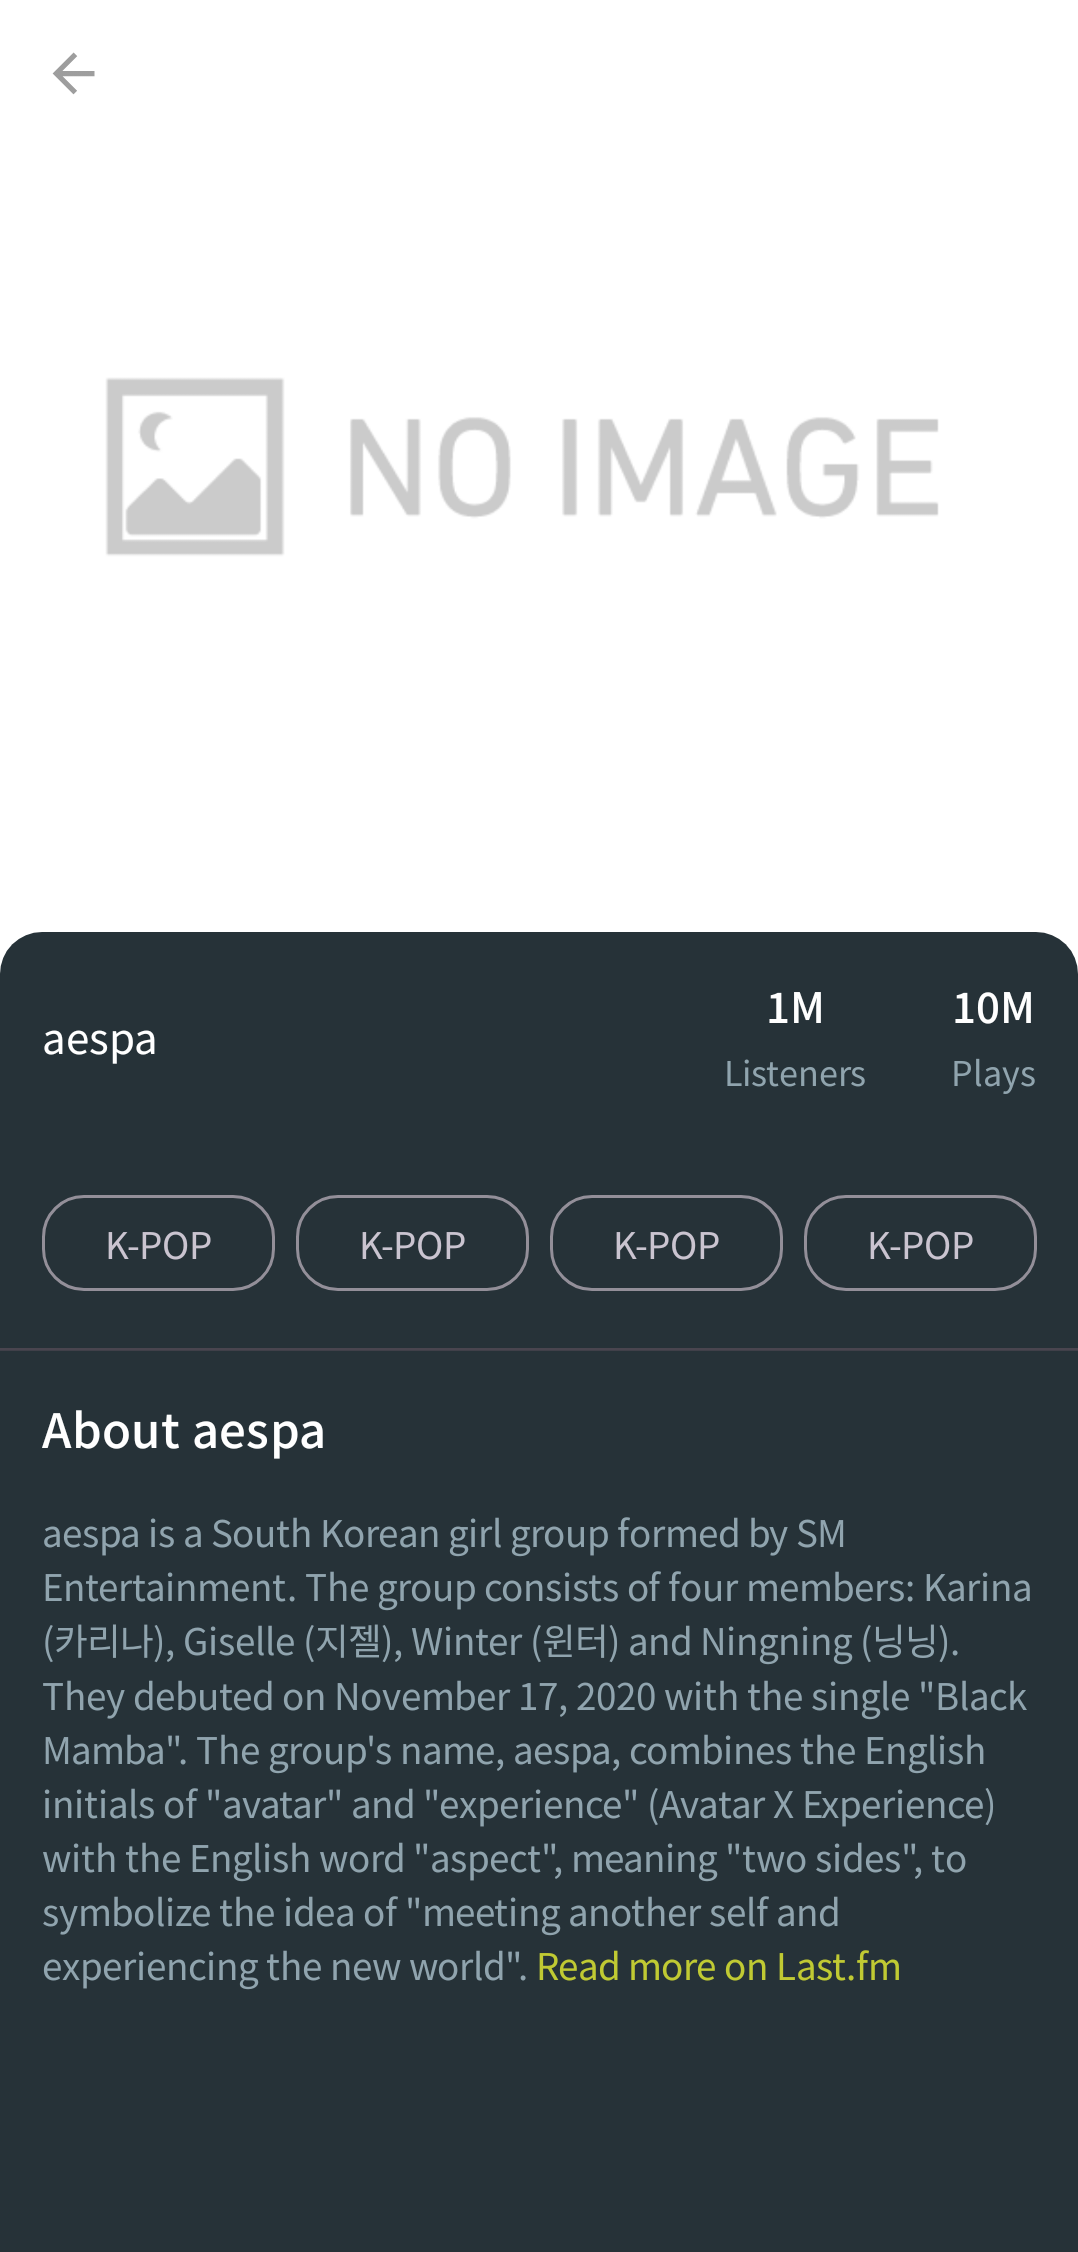
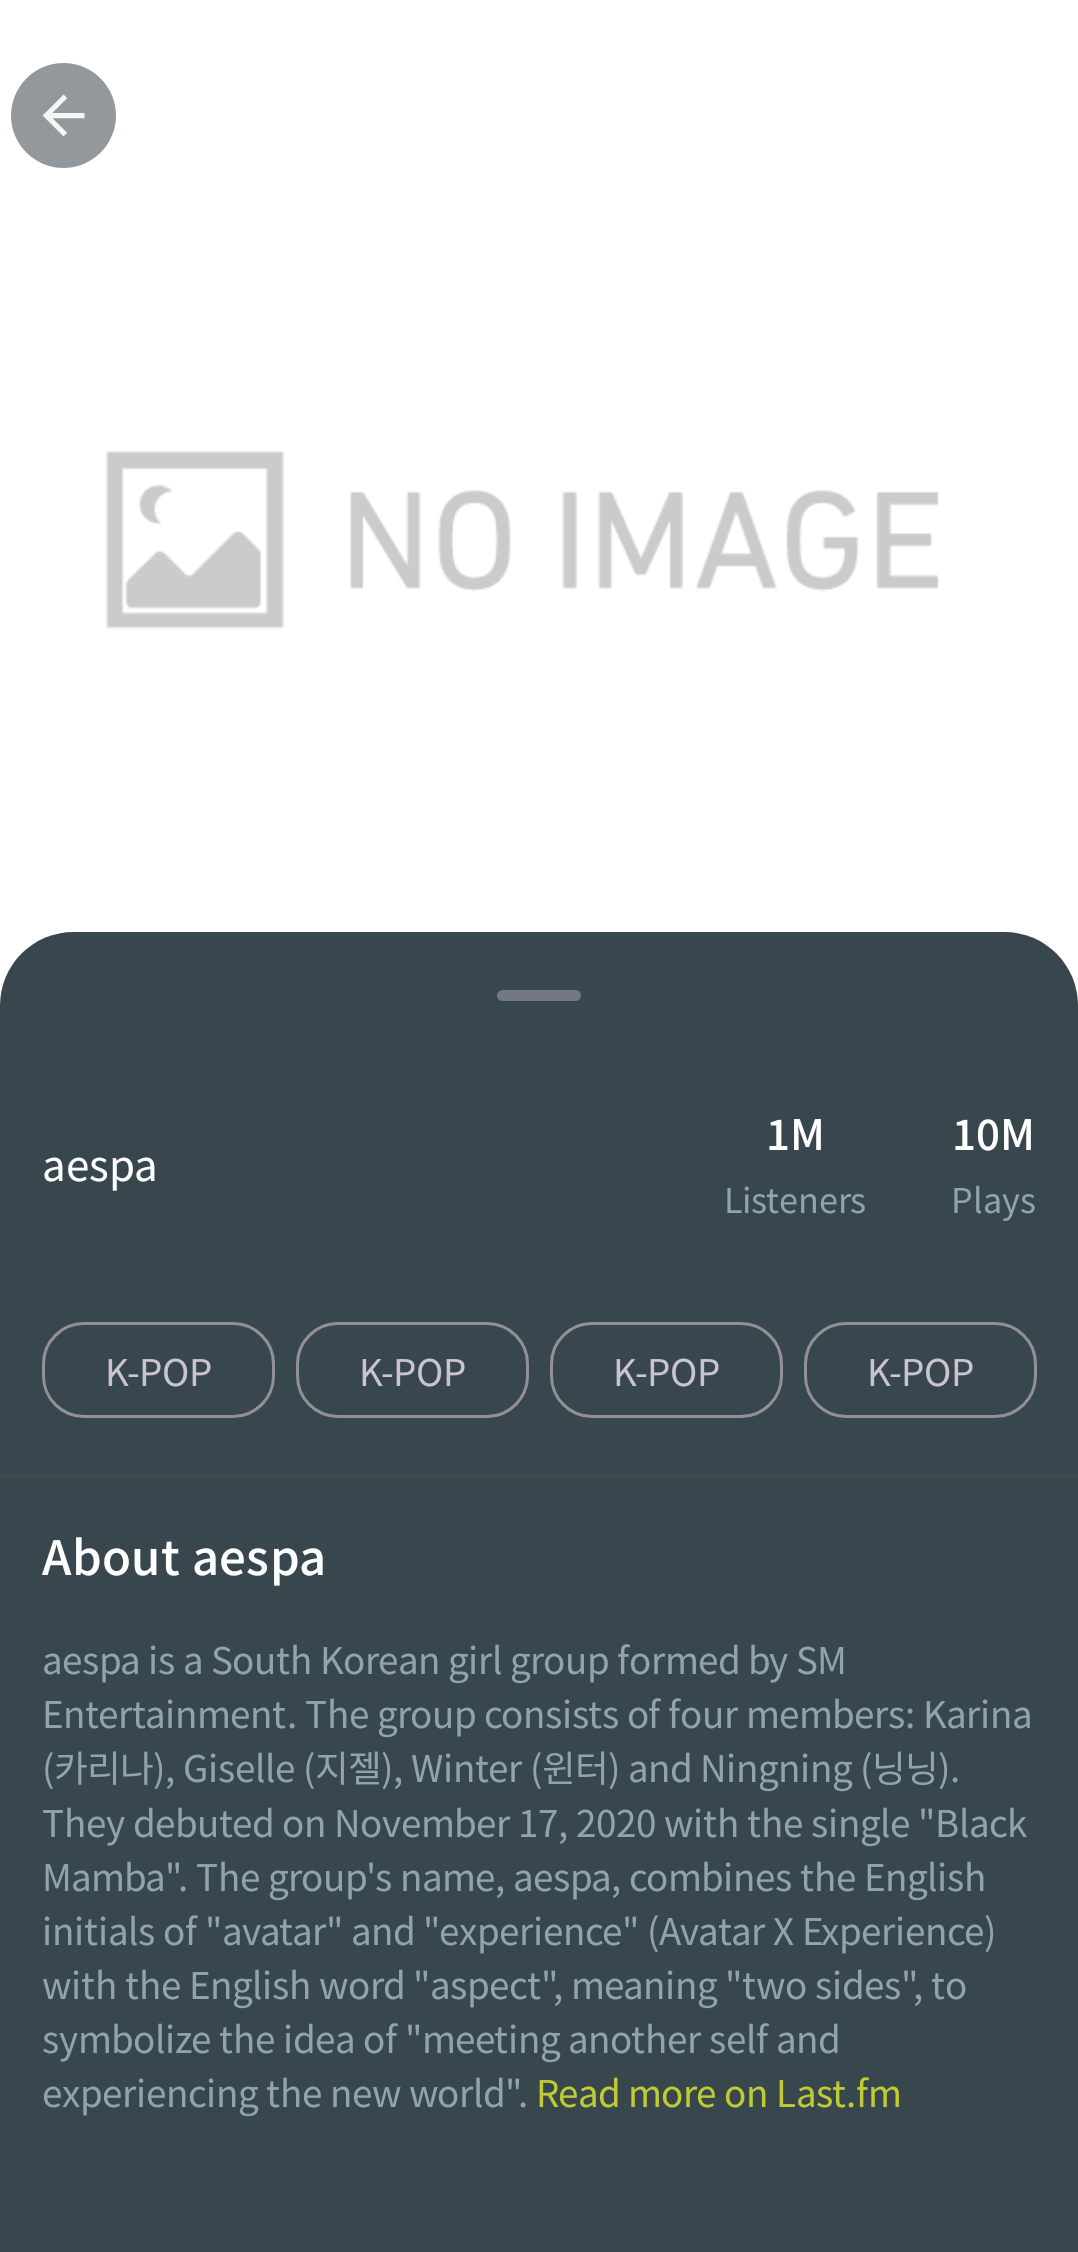
Replace with new BottomSheetScaffold in artist

diff --git a/feature/artist/src/main/java/com/mataku/scrobscrob/artist/ui/screen/ArtistScreen.kt b/feature/artist/src/main/java/com/mataku/scrobscrob/artist/ui/screen/ArtistScreen.kt
@@ -1,39 +1,32 @@
 package com.mataku.scrobscrob.artist.ui.screen
 
-import android.content.res.Configuration
-import androidx.compose.foundation.Image
 import androidx.compose.foundation.background
 import androidx.compose.foundation.clickable
 import androidx.compose.foundation.interaction.MutableInteractionSource
 import androidx.compose.foundation.layout.Box
 import androidx.compose.foundation.layout.Column
+import androidx.compose.foundation.layout.Spacer
 import androidx.compose.foundation.layout.aspectRatio
-import androidx.compose.foundation.layout.fillMaxSize
 import androidx.compose.foundation.layout.fillMaxWidth
 import androidx.compose.foundation.layout.height
 import androidx.compose.foundation.layout.offset
 import androidx.compose.foundation.layout.padding
 import androidx.compose.foundation.rememberScrollState
 import androidx.compose.foundation.verticalScroll
-import androidx.compose.material.BackdropScaffold
-import androidx.compose.material.BackdropScaffoldDefaults
-import androidx.compose.material.BackdropValue
-import androidx.compose.material.ExperimentalMaterialApi
-import androidx.compose.material.icons.Icons
-import androidx.compose.material.icons.automirrored.filled.ArrowBack
-import androidx.compose.material.rememberBackdropScaffoldState
+import androidx.compose.material3.BottomSheetScaffold
+import androidx.compose.material3.ExperimentalMaterial3Api
 import androidx.compose.material3.HorizontalDivider
-import androidx.compose.material3.MaterialTheme
+import androidx.compose.material3.SheetValue
 import androidx.compose.material3.Surface
+import androidx.compose.material3.rememberBottomSheetScaffoldState
+import androidx.compose.material3.rememberStandardBottomSheetState
 import androidx.compose.runtime.Composable
 import androidx.compose.runtime.collectAsState
 import androidx.compose.runtime.getValue
 import androidx.compose.runtime.remember
 import androidx.compose.ui.Modifier
-import androidx.compose.ui.draw.alpha
 import androidx.compose.ui.graphics.Color
-import androidx.compose.ui.graphics.ColorFilter
-import androidx.compose.ui.graphics.vector.rememberVectorPainter
+import androidx.compose.ui.layout.ContentScale
 import androidx.compose.ui.platform.LocalConfiguration
 import androidx.compose.ui.tooling.preview.Preview
 import androidx.compose.ui.tooling.preview.datasource.LoremIpsum
@@ -44,6 +37,7 @@ import com.mataku.scrobscrob.core.entity.ArtistInfo
 import com.mataku.scrobscrob.core.entity.Stats
 import com.mataku.scrobscrob.core.entity.Tag
 import com.mataku.scrobscrob.core.entity.Wiki
+import com.mataku.scrobscrob.ui_common.component.CircleBackButton
 import com.mataku.scrobscrob.ui_common.molecule.SunsetImage
 import com.mataku.scrobscrob.ui_common.molecule.TopTags
 import com.mataku.scrobscrob.ui_common.molecule.WikiCell
@@ -67,67 +61,65 @@ fun ArtistScreen(
   )
 }
 
-@OptIn(ExperimentalMaterialApi::class)
+@OptIn(ExperimentalMaterial3Api::class)
 @Composable
 private fun ArtistContent(
   artworkUrl: String,
   artistName: String,
   artistInfo: ArtistInfo?,
   onArtistLoadMoreTap: (String) -> Unit,
-  onBackPressed: () -> Unit
+  onBackPressed: () -> Unit,
+  modifier: Modifier = Modifier
 ) {
   val screenWidth = LocalConfiguration.current.screenWidthDp
   val screenHeight = LocalConfiguration.current.screenHeightDp
-  val scaffoldState = rememberBackdropScaffoldState(BackdropValue.Revealed)
+  val scaffoldState = rememberBottomSheetScaffoldState(
+    bottomSheetState = rememberStandardBottomSheetState(
+      initialValue = SheetValue.PartiallyExpanded
+    )
+  )
 
-  BackdropScaffold(
-    appBar = {},
-    headerHeight = if (LocalConfiguration.current.orientation == Configuration.ORIENTATION_PORTRAIT) {
+  BottomSheetScaffold(
+    modifier = modifier,
+    scaffoldState = scaffoldState,
+    sheetPeekHeight = if (screenHeight >= screenWidth) {
       (screenHeight - screenWidth).dp
     } else {
-      BackdropScaffoldDefaults.HeaderHeight
+      (screenWidth - screenHeight).dp
     },
-    backLayerContent = {
+    content = {
       val imageData = artworkUrl.ifBlank {
         com.mataku.scrobscrob.ui_common.R.drawable.no_image
       }
       Column {
         Box {
-
           SunsetImage(
             imageData = imageData,
             contentDescription = "artwork image",
             modifier = Modifier
               .fillMaxWidth()
-              .aspectRatio(1F)
+              .aspectRatio(1F),
+            contentScale = ContentScale.FillWidth
           )
-          Box(
+          Column(
             modifier = Modifier
               .fillMaxWidth()
-              .height(64.dp)
               .background(
                 color = Color.Transparent
               )
           ) {
-            Image(
-              painter = rememberVectorPainter(image = Icons.AutoMirrored.Default.ArrowBack),
-              contentDescription = "back",
+            Spacer(modifier = Modifier.height(24.dp))
+            CircleBackButton(
               modifier = Modifier
+                .padding(
+                  start = 4.dp
+                )
                 .clickable(
+                  interactionSource = remember { MutableInteractionSource() },
                   indication = null,
-                  interactionSource = remember { MutableInteractionSource() }
                 ) {
                   onBackPressed.invoke()
                 }
-                .padding(
-                  16.dp
-                )
-                .alpha(0.9F),
-              colorFilter = ColorFilter.tint(
-                color = Color.Gray.copy(
-                  alpha = 0.9F
-                )
-              )
             )
           }
         }
@@ -136,14 +128,12 @@ private fun ArtistContent(
           contentDescription = "artwork image",
           modifier = Modifier
             .fillMaxWidth()
-            .aspectRatio(1F)
-            .offset(
-              y = (screenWidth / 2).dp
-            )
+            .aspectRatio(1F),
+          contentScale = ContentScale.FillWidth
         )
       }
     },
-    frontLayerContent = {
+    sheetContent = {
       Column(
         modifier = Modifier
           .fillMaxWidth()
@@ -179,14 +169,6 @@ private fun ArtistContent(
         }
       }
     },
-    modifier = Modifier
-      .fillMaxSize()
-      .background(
-        color = Color.White
-      ),
-    scaffoldState = scaffoldState,
-    frontLayerBackgroundColor = MaterialTheme.colorScheme.background,
-    frontLayerScrimColor = Color.Transparent
   )
 }
 

diff --git a/feature/album/src/main/java/com/mataku/scrobscrob/album/ui/screen/AlbumScreen.kt b/feature/album/src/main/java/com/mataku/scrobscrob/album/ui/screen/AlbumScreen.kt
@@ -1,6 +1,5 @@
 package com.mataku.scrobscrob.album.ui.screen
 
-import androidx.compose.foundation.Image
 import androidx.compose.foundation.background
 import androidx.compose.foundation.clickable
 import androidx.compose.foundation.interaction.MutableInteractionSource
@@ -11,16 +10,11 @@ import androidx.compose.foundation.layout.aspectRatio
 import androidx.compose.foundation.layout.fillMaxWidth
 import androidx.compose.foundation.layout.height
 import androidx.compose.foundation.layout.padding
-import androidx.compose.foundation.layout.size
 import androidx.compose.foundation.rememberScrollState
-import androidx.compose.foundation.shape.CircleShape
 import androidx.compose.foundation.verticalScroll
-import androidx.compose.material.icons.Icons
-import androidx.compose.material.icons.automirrored.filled.ArrowBack
 import androidx.compose.material3.BottomSheetScaffold
 import androidx.compose.material3.ExperimentalMaterial3Api
 import androidx.compose.material3.HorizontalDivider
-import androidx.compose.material3.MaterialTheme
 import androidx.compose.material3.SheetValue
 import androidx.compose.material3.Surface
 import androidx.compose.material3.rememberBottomSheetScaffoldState
@@ -29,13 +23,8 @@ import androidx.compose.runtime.Composable
 import androidx.compose.runtime.collectAsState
 import androidx.compose.runtime.getValue
 import androidx.compose.runtime.remember
-import androidx.compose.ui.Alignment
 import androidx.compose.ui.Modifier
-import androidx.compose.ui.draw.alpha
-import androidx.compose.ui.draw.clip
 import androidx.compose.ui.graphics.Color
-import androidx.compose.ui.graphics.ColorFilter
-import androidx.compose.ui.graphics.vector.rememberVectorPainter
 import androidx.compose.ui.layout.ContentScale
 import androidx.compose.ui.platform.LocalConfiguration
 import androidx.compose.ui.tooling.preview.Preview
